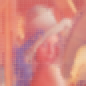
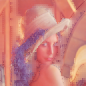
1.9: fixed block size

diff --git a/src/djvul.h b/src/djvul.h
@@ -4,7 +4,7 @@ https://github.com/plzombie/depress/issues/2
 
 #ifndef DJVUL_H_
 #define DJVUL_H_
-#define DJVUL_VERSION "1.8"
+#define DJVUL_VERSION "1.9"
 
 #include <stdbool.h>
 
@@ -72,7 +72,7 @@ DJVULAPI int ImageDjvulThreshold(unsigned char* buf, bool* bufmask, unsigned cha
     int pim[IMAGE_CHANNELS], gim[IMAGE_CHANNELS], tim[IMAGE_CHANNELS];
     int fgim[IMAGE_CHANNELS], bgim[IMAGE_CHANNELS];
     int imd;
-    float fgk, imx, parts, ims[IMAGE_CHANNELS];
+    float fgk, imx, partl, parts, ims[IMAGE_CHANNELS];
     float fgdist, bgdist, fgdistf, bgdistf, kover, fgpart, bgpart;
     unsigned int maskbl, maskover, bgsover, fgnum, bgnum;
     unsigned int fgsum[IMAGE_CHANNELS], bgsum[IMAGE_CHANNELS];
@@ -107,6 +107,7 @@ DJVULAPI int ImageDjvulThreshold(unsigned char* buf, bool* bufmask, unsigned cha
             blsz <<= 1;
         }
     }
+    blsz >>= 1;
     if (doverlay < 0.0f)
     {
         doverlay = 0.0f;
@@ -146,6 +147,7 @@ DJVULAPI int ImageDjvulThreshold(unsigned char* buf, bool* bufmask, unsigned cha
         maskbl = bgs * blsz;
         maskover = (kover * maskbl);
         bgsover = (kover * blsz);
+        partl = (float)(level - l) / (float)level;
         for (i = 0; i < cnth; i++)
         {
             y0 = i * maskbl;
@@ -184,8 +186,9 @@ DJVULAPI int ImageDjvulThreshold(unsigned char* buf, bool* bufmask, unsigned cha
                     {
                         ims[d] /= (float)n;
                     }
-                    if (ims[d] > 255.0f) ims[d] = 255.0f;
-                    gim[d] = (int)(ims[d] + 0.5f);
+                    ims[d] += 0.5f;
+                    ims[d] = (ims[d] < 0.0f) ? 0.0f : (ims[d] < 255.0f) ? ims[d] : 255.0f;
+                    gim[d] = (int)ims[d];
                 }
 
                 // mean region buffg
@@ -213,8 +216,9 @@ DJVULAPI int ImageDjvulThreshold(unsigned char* buf, bool* bufmask, unsigned cha
                     {
                         ims[d] /= (float)n;
                     }
-                    if (ims[d] > 255.0f) ims[d] = 255.0f;
-                    fgim[d] = (int)(ims[d] + 0.5f);
+                    ims[d] += 0.5f;
+                    ims[d] = (ims[d] < 0.0f) ? 0.0f : (ims[d] < 255.0f) ? ims[d] : 255.0f;
+                    fgim[d] = (int)ims[d];
                 }
 
                 // mean region bufbg
@@ -242,8 +246,9 @@ DJVULAPI int ImageDjvulThreshold(unsigned char* buf, bool* bufmask, unsigned cha
                     {
                         ims[d] /= (float)n;
                     }
-                    if (ims[d] > 255.0f) ims[d] = 255.0f;
-                    bgim[d] = (int)(ims[d] + 0.5f);
+                    ims[d] += 0.5f;
+                    ims[d] = (ims[d] < 0.0f) ? 0.0f : (ims[d] < 255.0f) ? ims[d] : 255.0f;
+                    bgim[d] = (int)ims[d];
                 }
 
                 // distance buffg -> buf, bufbg -> buf
@@ -356,13 +361,10 @@ DJVULAPI int ImageDjvulThreshold(unsigned char* buf, bool* bufmask, unsigned cha
                     fgpart += (fgdist + fgdist) / (fgdist + bgdist);
                     bgpart += (bgdist + bgdist) / (fgdist + bgdist);
                 }
+                fgpart *= partl;
+                bgpart *= partl;
 
                 // average old and new FG
-                for (d = 0; d < IMAGE_CHANNELS; d++)
-                {
-                    ims[d] = 0.0f;
-                }
-                n = 0;
                 parts = 1.0f /((float)fgpart + 1.0f);
                 for (y = y0b; y < y1b; y++)
                 {
@@ -376,18 +378,13 @@ DJVULAPI int ImageDjvulThreshold(unsigned char* buf, bool* bufmask, unsigned cha
                             imx += (float)fgim[d];
                             imx *= parts;
                             imx += 0.5f;
-                            if (imx > 255.0f) imx = 255.0f;
-                            buffg[k + d] = (unsigned char)(imx + 0.5f);
-                            ims[d] += imx;
+                            imx = (imx < 0.0f) ? 0.0f : (imx < 255.0f) ? imx : 255.0f;
+                            buffg[k + d] = (unsigned char)imx;
                         }
                     }
                 }
 
                 // average old and new BG
-                for (d = 0; d < IMAGE_CHANNELS; d++)
-                {
-                    ims[d] = 0.0f;
-                }
                 parts = 1.0f /((float)bgpart + 1.0f);
                 for (y = y0b; y < y1b; y++)
                 {
@@ -401,9 +398,8 @@ DJVULAPI int ImageDjvulThreshold(unsigned char* buf, bool* bufmask, unsigned cha
                             imx += (float)bgim[d];
                             imx *= parts;
                             imx += 0.5f;
-                            if (imx > 255.0f) imx = 255.0f;
-                            bufbg[k + d] = (unsigned char)(imx + 0.5f);
-                            ims[d] += imx;
+                            imx = (imx < 0.0f) ? 0.0f : (imx < 255.0f) ? imx : 255.0f;
+                            bufbg[k + d] = (unsigned char)imx;
                         }
                     }
                 }
@@ -484,7 +480,7 @@ DJVULAPI int ImageDjvulGround(unsigned char* buf, bool* bufmask, unsigned char* 
     int pim[IMAGE_CHANNELS], fgim[IMAGE_CHANNELS], bgim[IMAGE_CHANNELS];
     int imd;
     bool mim;
-    float imx, parts, ims[IMAGE_CHANNELS];
+    float imx, partl, parts, ims[IMAGE_CHANNELS];
     float fgdist, bgdist, kover, fgpart, bgpart;
     unsigned int maskbl, maskover, bgsover, fgnum, bgnum;
     unsigned int fgsum[IMAGE_CHANNELS], bgsum[IMAGE_CHANNELS];
@@ -519,6 +515,7 @@ DJVULAPI int ImageDjvulGround(unsigned char* buf, bool* bufmask, unsigned char* 
             blsz <<= 1;
         }
     }
+    blsz >>= 1;
     if (doverlay < 0.0f)
     {
         doverlay = 0.0f;
@@ -549,6 +546,7 @@ DJVULAPI int ImageDjvulGround(unsigned char* buf, bool* bufmask, unsigned char* 
         maskbl = bgs * blsz;
         maskover = (kover * maskbl);
         bgsover = (kover * blsz);
+        partl = (float)(level - l) / (float)level;
         for (i = 0; i < cnth; i++)
         {
             y0 = i * maskbl;
@@ -671,13 +669,10 @@ DJVULAPI int ImageDjvulGround(unsigned char* buf, bool* bufmask, unsigned char* 
                     fgpart += (fgdist + fgdist) / (fgdist + bgdist);
                     bgpart += (bgdist + bgdist) / (fgdist + bgdist);
                 }
+                fgpart *= partl;
+                bgpart *= partl;
 
                 // average old and new FG
-                for (d = 0; d < IMAGE_CHANNELS; d++)
-                {
-                    ims[d] = 0.0f;
-                }
-                n = 0;
                 parts = 1.0f /((float)fgpart + 1.0f);
                 for (y = y0b; y < y1b; y++)
                 {
@@ -691,18 +686,13 @@ DJVULAPI int ImageDjvulGround(unsigned char* buf, bool* bufmask, unsigned char* 
                             imx += (float)fgim[d];
                             imx *= parts;
                             imx += 0.5f;
-                            if (imx > 255.0f) imx = 255.0f;
-                            buffg[k + d] = (unsigned char)(imx + 0.5f);
-                            ims[d] += imx;
+                            imx = (imx < 0.0f) ? 0.0f : (imx < 255.0f) ? imx : 255.0f;
+                            buffg[k + d] = (unsigned char)imx;
                         }
                     }
                 }
 
                 // average old and new BG
-                for (d = 0; d < IMAGE_CHANNELS; d++)
-                {
-                    ims[d] = 0.0f;
-                }
                 parts = 1.0f /((float)bgpart + 1.0f);
                 for (y = y0b; y < y1b; y++)
                 {
@@ -716,9 +706,8 @@ DJVULAPI int ImageDjvulGround(unsigned char* buf, bool* bufmask, unsigned char* 
                             imx += (float)bgim[d];
                             imx *= parts;
                             imx += 0.5f;
-                            if (imx > 255.0f) imx = 255.0f;
-                            bufbg[k + d] = (unsigned char)(imx + 0.5f);
-                            ims[d] += imx;
+                            imx = (imx < 0.0f) ? 0.0f : (imx < 255.0f) ? imx : 255.0f;
+                            bufbg[k + d] = (unsigned char)imx;
                         }
                     }
                 }
